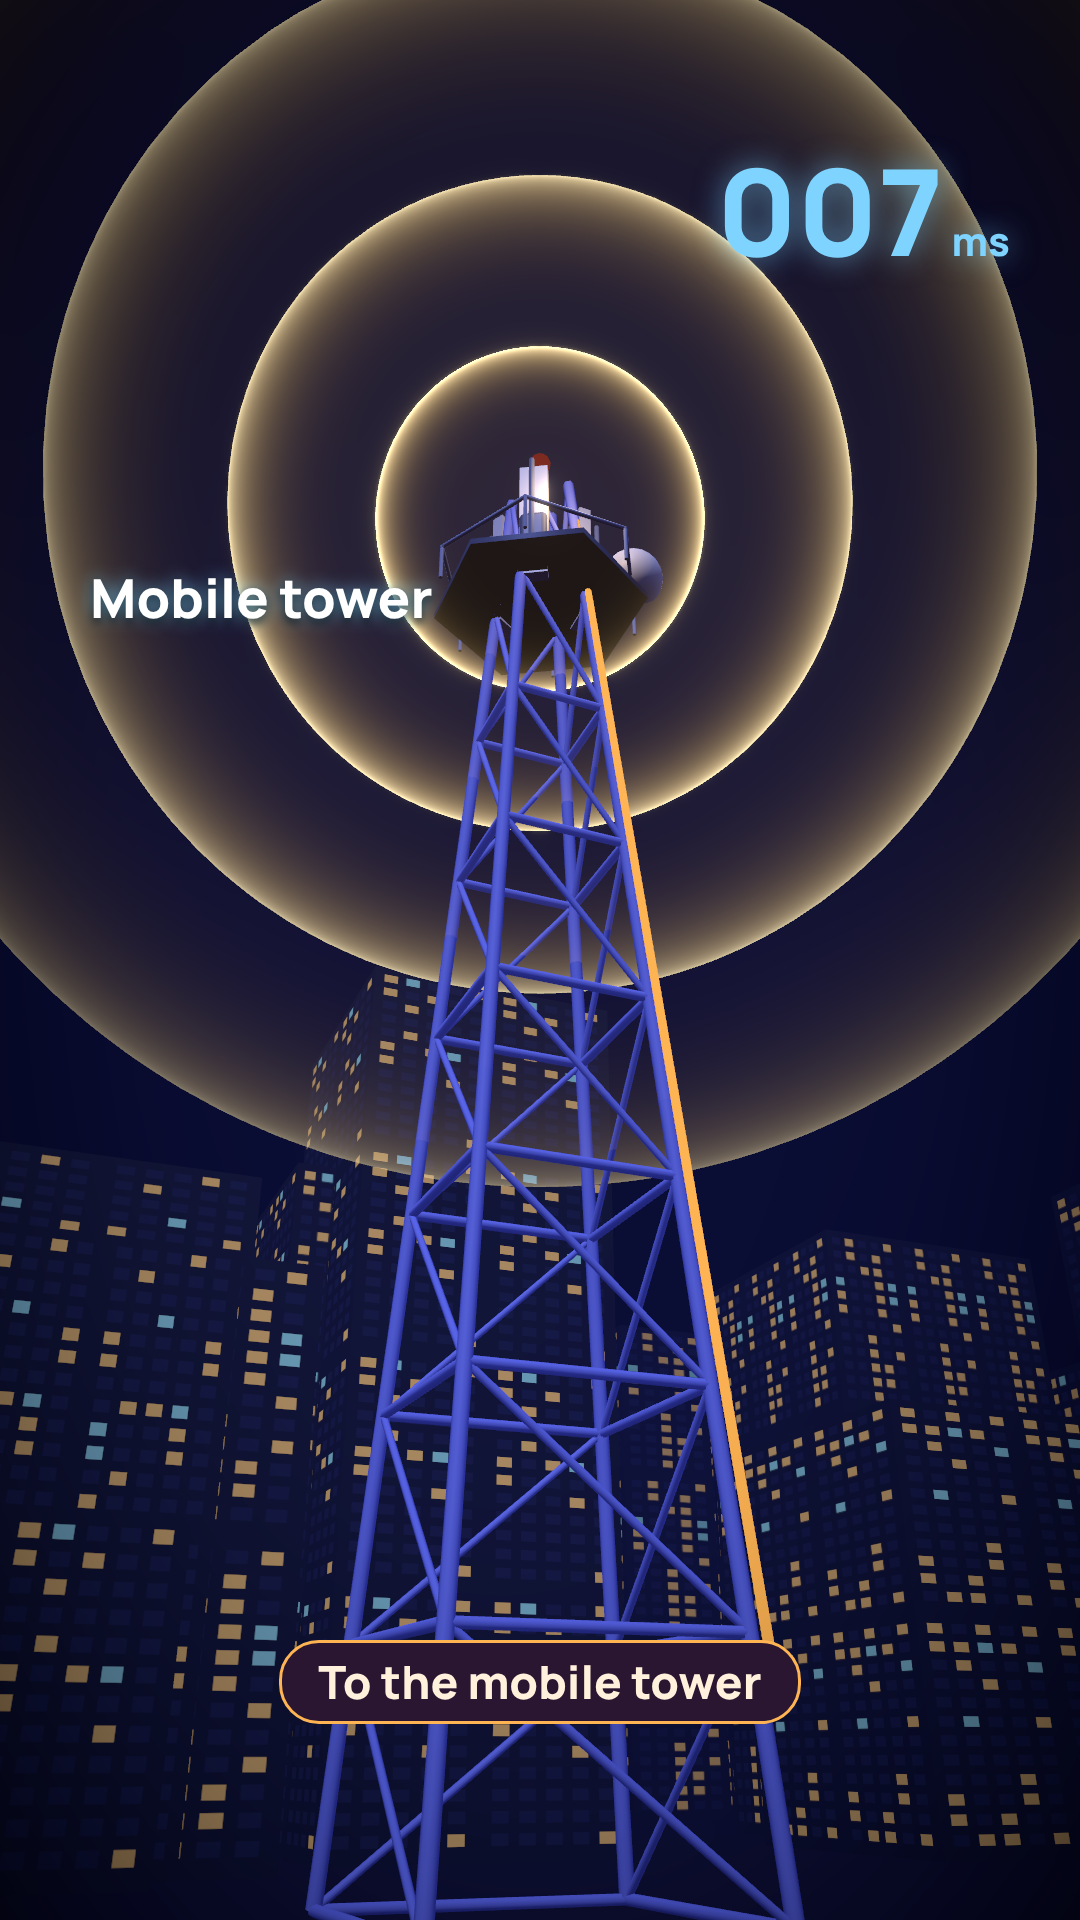
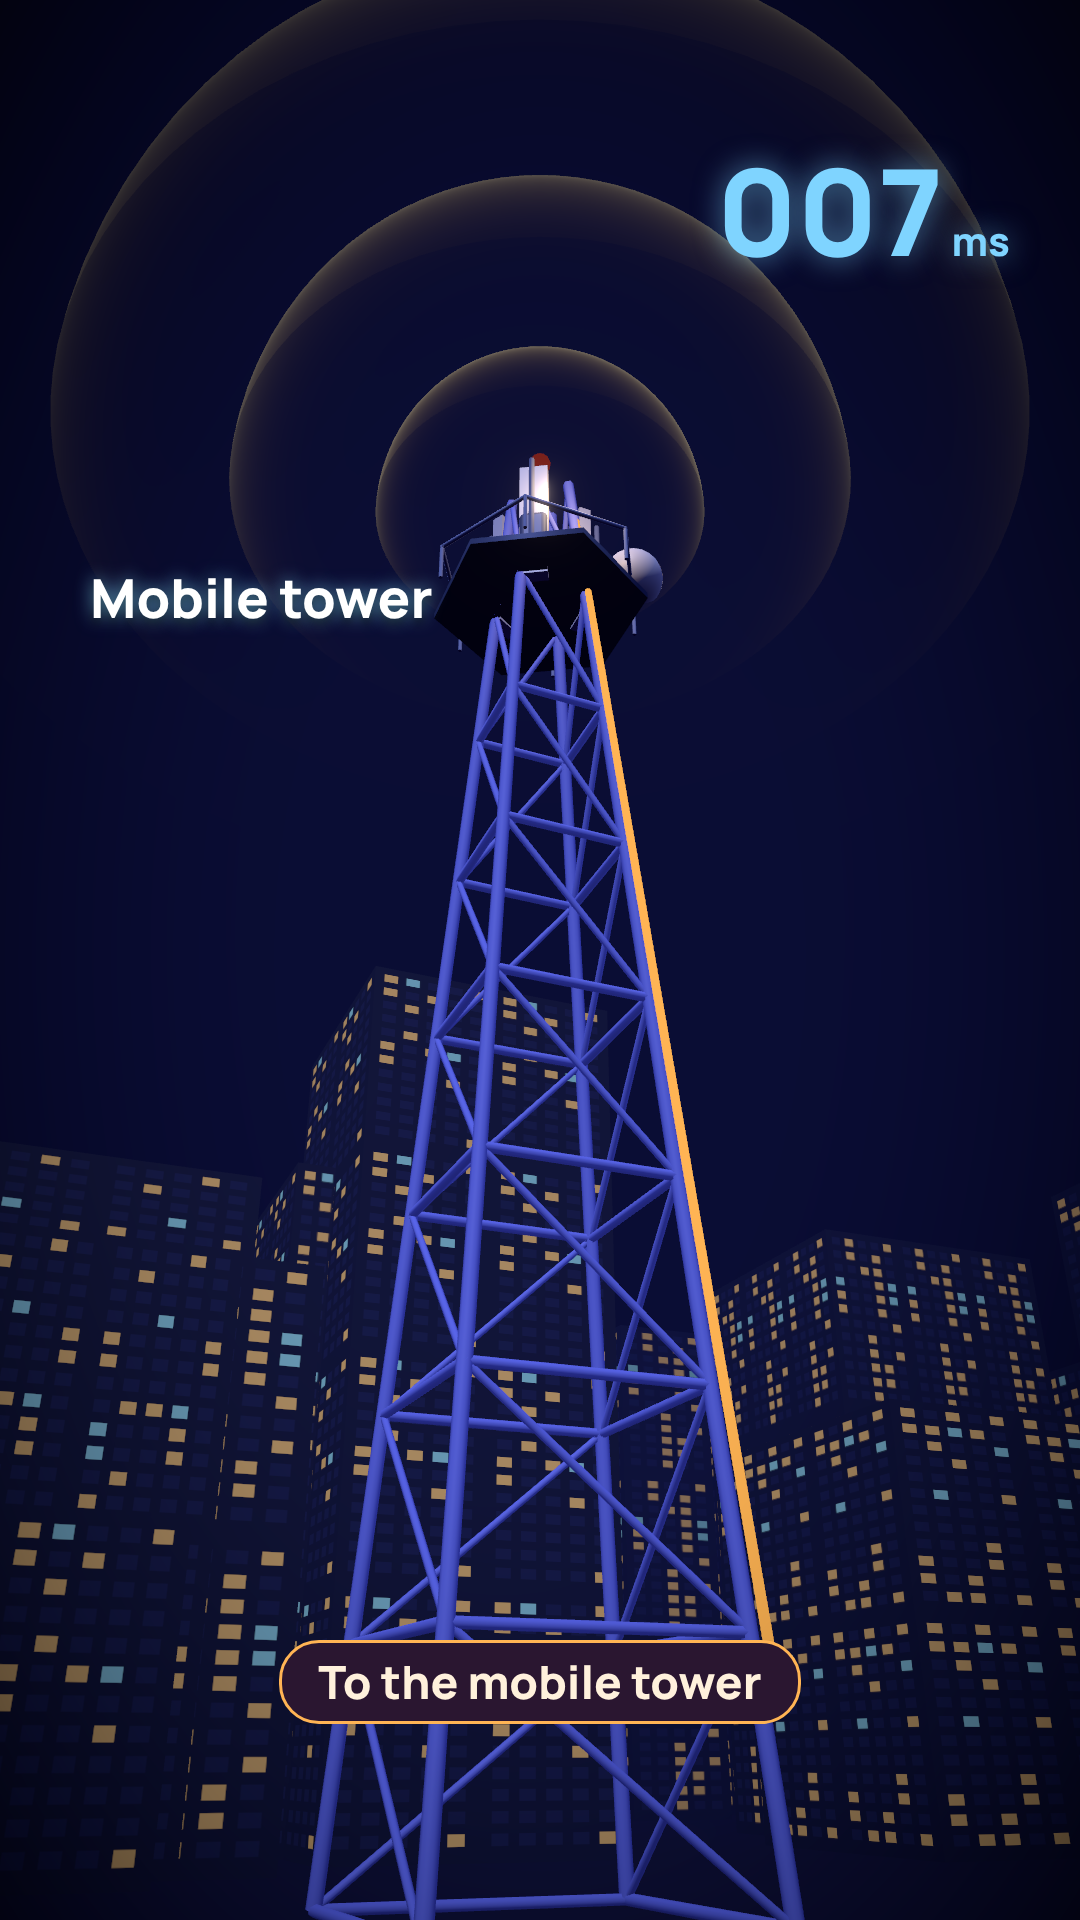
Tower waves: upper half only, very light (stills)
Claude-Session: https://claude.ai/code/session_01GXcKc5WpkD8jhBf44cT6jS

diff --git a/internet/v3/src/v4/TowerHyd.tsx b/internet/v3/src/v4/TowerHyd.tsx
@@ -37,9 +37,9 @@ const Waves: React.FC = () => (<group position={[0.3, 3.4, 0]} quaternion={new T
 /* the signal waves: big, soft, see-through glowing shells (bright thin edge, clear inside) that grow out of the antennas, like the reference */
 const shellMat = (o: number) => new THREE.ShaderMaterial({ transparent: true, depthWrite: false, blending: THREE.AdditiveBlending, side: THREE.DoubleSide, uniforms: { o: { value: o } },
   vertexShader: 'varying vec3 vN; varying vec3 vV; void main(){ vec4 mv = modelViewMatrix*vec4(position,1.); vN = normalize(normalMatrix*normal); vV = normalize(-mv.xyz); gl_Position = projectionMatrix*mv; }',
-  fragmentShader: 'uniform float o; varying vec3 vN; varying vec3 vV; void main(){ float d = abs(dot(normalize(vN), normalize(vV))); float f = pow(1.0 - d, 2.6); vec3 c = mix(vec3(1.0,0.62,0.18), vec3(1.0,0.86,0.5), f); gl_FragColor = vec4(c * (0.10 + 1.3*f) * o, (0.05 + 0.85*f) * o); }' });
-const Signal: React.FC<{ radii: number[] }> = ({ radii }) => { const mats = React.useMemo(() => radii.map((_, k) => shellMat(1 - k * 0.22)), [radii.join(',')]);
-  return <group position={[TOWER.x, BASE + 21.2, TOWER.z]}>{radii.map((r, k) => <mesh key={k} material={mats[k]}><sphereGeometry args={[r, 96, 64]} /></mesh>)}</group>; };
+  fragmentShader: 'uniform float o; varying vec3 vN; varying vec3 vV; void main(){ float d = abs(dot(normalize(vN), normalize(vV))); float f = pow(1.0 - d, 2.6); vec3 c = mix(vec3(1.0,0.62,0.18), vec3(1.0,0.86,0.5), f); gl_FragColor = vec4(c * (0.04 + 1.1*f) * o, (0.02 + 0.7*f) * o); }' });
+const Signal: React.FC<{ radii: number[] }> = ({ radii }) => { const mats = React.useMemo(() => radii.map((_, k) => shellMat(0.38 - k * 0.07)), [radii.join(',')]);
+  return <group position={[TOWER.x, BASE + 21.2, TOWER.z]}>{radii.map((r, k) => <mesh key={k} material={mats[k]}><sphereGeometry args={[r, 96, 40, 0, Math.PI * 2, 0, Math.PI / 2]} /></mesh>)}</group>; };
 const Panels: React.FC = () => (<group position={[TOWER.x, BASE + 20.4, TOWER.z]}>
   {/* walkway ring with a soft railing, a radio unit behind each antenna, a dish, cable bundles */}
   <mesh position={[0, -1.2, 0]}><cylinderGeometry args={[1.9, 1.9, 0.12, 6]} /><meshStandardMaterial color="#5a6aa0" roughness={0.6} metalness={0.4} /></mesh>
